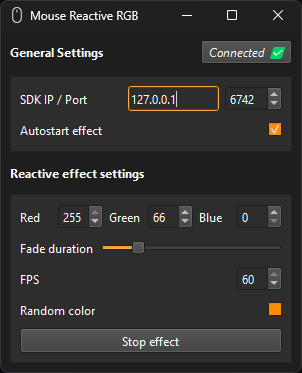
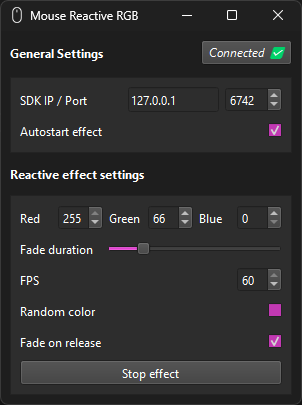
added fade on release option

diff --git a/src/mousereactivergb.py b/src/mousereactivergb.py
@@ -76,6 +76,7 @@ class MouseReactiveRGB(QMainWindow):
         self.ui.fpsSpinBox.valueChanged.connect(self.save_settings)
         self.ui.autostartCheckBox.stateChanged.connect(self.save_settings)
         self.ui.startstopButton.clicked.connect(self.on_startstopButton_clicked)
+        self.ui.fadeOnReleaseCheckBox.stateChanged.connect(self.save_settings)
 
     def connect_to_openrgb(self):
         ip = self.ui.ipLineEdit.text()
@@ -124,12 +125,12 @@ class MouseReactiveRGB(QMainWindow):
     def on_connection_success(self):
         self.connected = True
         self.ui.connectionStatusButton.setText("Connected ✅")
-        self.retry_timer.stop()  # Stop retrying since we're connected
+        self.retry_timer.stop()
 
     def on_connection_failure(self):
         self.connected = False
         self.ui.connectionStatusButton.setText("Disconnected ❌")
-        self.retry_timer.start(1000)  # Continue retrying every second
+        self.retry_timer.start(1000)
 
     def start_listener(self):
         with Listener(on_click=self.on_click) as listener:
@@ -140,12 +141,28 @@ class MouseReactiveRGB(QMainWindow):
             return
         if pressed:
             QMetaObject.invokeMethod(self, "trigger_reactive_effect", Qt.ConnectionType.QueuedConnection)
+        else:
+            if self.ui.fadeOnReleaseCheckBox.isChecked():
+                # Start fading only when the mouse button is released
+                QMetaObject.invokeMethod(self, "start_fade_effect", Qt.ConnectionType.QueuedConnection)
 
     @pyqtSlot()
     def trigger_reactive_effect(self):
         if not self.mouse:
             self.retry_connection()
         self.start_reactive_effect()
+
+    @pyqtSlot()
+    def start_fade_effect(self):
+        """Starts the fade-out effect after mouse button is released."""
+        if not self.mouse or not self.run_effect:
+            return
+        self.current_frame = 0
+        self.fade_duration = self.ui.fadeDurationSlider.value()
+        self.target_fps = self.ui.fpsSpinBox.value()
+        self.frame_interval = 1000 // self.target_fps
+        self.total_frames = self.fade_duration // self.frame_interval
+        self.fade_timer.start(self.frame_interval)
 
     def start_reactive_effect(self):
         if not self.mouse:
@@ -174,13 +191,9 @@ class MouseReactiveRGB(QMainWindow):
             self.retry_timer.start(1000)
             return
 
-        self.fade_duration = self.ui.fadeDurationSlider.value()
-        self.target_fps = self.ui.fpsSpinBox.value()
-        self.frame_interval = 1000 // self.target_fps
-        self.total_frames = self.fade_duration // self.frame_interval
-        self.current_frame = 0
-
-        self.fade_timer.start(self.frame_interval)
+        # Only start fading immediately if the fadeOnReleaseCheckBox is not checked
+        if not self.ui.fadeOnReleaseCheckBox.isChecked():
+            self.start_fade_effect()
 
     def fade_out(self):
         if self.current_frame >= self.total_frames:

diff --git a/src/ui_mousereactivergb.py b/src/ui_mousereactivergb.py
@@ -12,7 +12,7 @@ from PyQt6 import QtCore, QtGui, QtWidgets
 class Ui_MouseReactiveRGB(object):
     def setupUi(self, MouseReactiveRGB):
         MouseReactiveRGB.setObjectName("MouseReactiveRGB")
-        MouseReactiveRGB.resize(300, 341)
+        MouseReactiveRGB.resize(300, 373)
         MouseReactiveRGB.setMinimumSize(QtCore.QSize(300, 0))
         self.centralwidget = QtWidgets.QWidget(parent=MouseReactiveRGB)
         self.centralwidget.setObjectName("centralwidget")
@@ -143,6 +143,15 @@ class Ui_MouseReactiveRGB(object):
         self.randomCheckBox.setText("")
         self.randomCheckBox.setObjectName("randomCheckBox")
         self.gridLayout_3.addWidget(self.randomCheckBox, 3, 2, 1, 1)
+        self.fadeOnReleaseCheckBox = QtWidgets.QCheckBox(parent=self.frame_2)
+        self.fadeOnReleaseCheckBox.setMinimumSize(QtCore.QSize(0, 25))
+        self.fadeOnReleaseCheckBox.setLayoutDirection(QtCore.Qt.LayoutDirection.RightToLeft)
+        self.fadeOnReleaseCheckBox.setText("")
+        self.fadeOnReleaseCheckBox.setObjectName("fadeOnReleaseCheckBox")
+        self.gridLayout_3.addWidget(self.fadeOnReleaseCheckBox, 4, 2, 1, 1)
+        self.label_6 = QtWidgets.QLabel(parent=self.frame_2)
+        self.label_6.setObjectName("label_6")
+        self.gridLayout_3.addWidget(self.label_6, 4, 0, 1, 1)
         self.gridLayout.addWidget(self.frame_2, 3, 0, 1, 2)
         self.label_8 = QtWidgets.QLabel(parent=self.centralwidget)
         self.label_8.setMinimumSize(QtCore.QSize(0, 0))
@@ -152,7 +161,7 @@ class Ui_MouseReactiveRGB(object):
         self.label_8.setObjectName("label_8")
         self.gridLayout.addWidget(self.label_8, 2, 0, 1, 2)
         self.connectionStatusButton = QtWidgets.QToolButton(parent=self.centralwidget)
-        self.connectionStatusButton.setMinimumSize(QtCore.QSize(0, 0))
+        self.connectionStatusButton.setMinimumSize(QtCore.QSize(0, 25))
         font = QtGui.QFont()
         font.setItalic(True)
         self.connectionStatusButton.setFont(font)
@@ -177,5 +186,6 @@ class Ui_MouseReactiveRGB(object):
         self.label_4.setText(_translate("MouseReactiveRGB", "Fade duration"))
         self.label_10.setText(_translate("MouseReactiveRGB", "FPS"))
         self.label_9.setText(_translate("MouseReactiveRGB", "Random color"))
+        self.label_6.setText(_translate("MouseReactiveRGB", "Fade on release"))
         self.label_8.setText(_translate("MouseReactiveRGB", "Reactive effect settings"))
         self.connectionStatusButton.setText(_translate("MouseReactiveRGB", "Disconnected ❌"))
